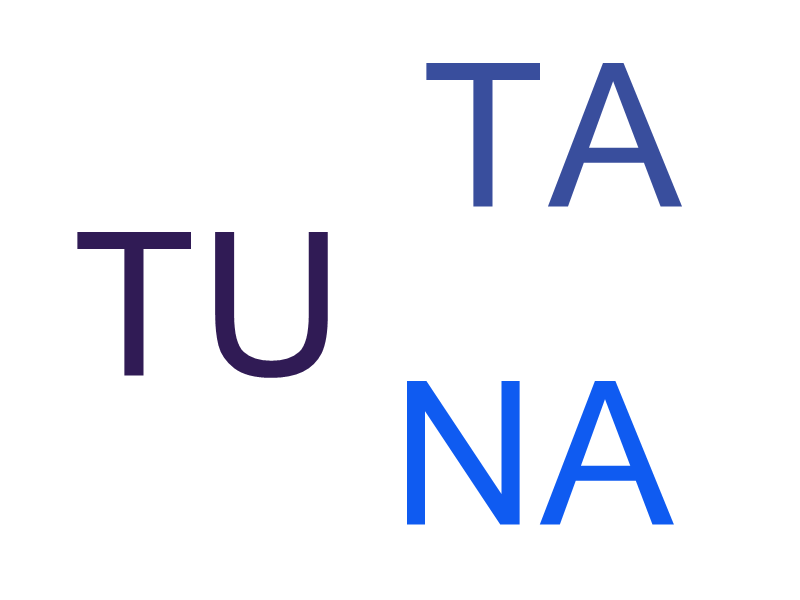
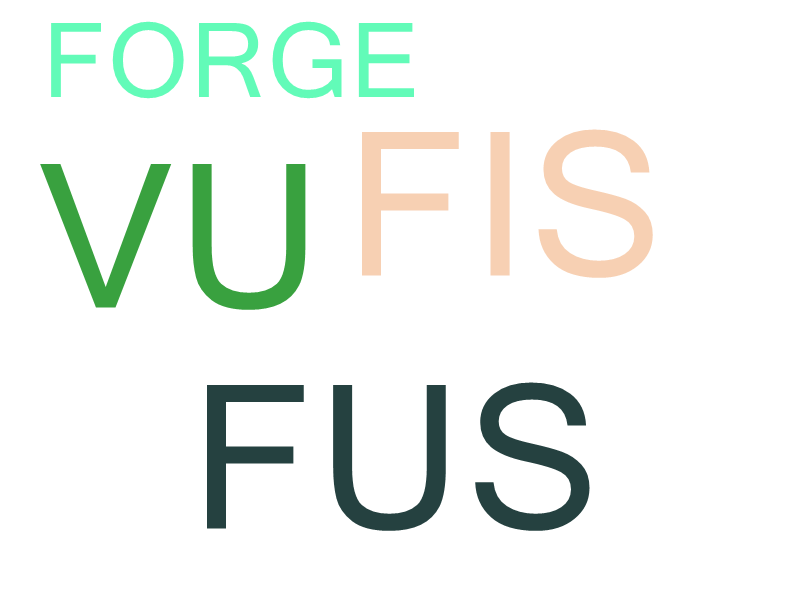
Début du nuage de mots - probs de config à régler

Changed region(s): [[0.0312, 0.03, 0.875, 0.9], [0.4062, 0.63, 0.8438, 0.9]]

diff --git a/Projet_Algo_1/Program.cs b/Projet_Algo_1/Program.cs
@@ -4,7 +4,9 @@ using System.Globalization;
 using System.Drawing;
 using WordCloudSharp;
 using System.Drawing.Imaging;
+using System.Linq;
 using static System.Net.Mime.MediaTypeNames;
+using System.Diagnostics;
 
 
 namespace Projet_Algo_1
@@ -235,12 +237,14 @@ namespace Projet_Algo_1
                     IList<string> motsTrouvés = joueur.MotsTrouvés.ToList();
                     IList<int> frequences = motsFrequencies.Values.ToList();
                     var wordCloud = new WordCloud(800, 600); /// Taille de l'image
-                    Image image = wordCloud.Draw(motsTrouvés, frequences);
+                    System.Drawing.Image image = wordCloud.Draw(motsTrouvés, frequences); /// Explicitement System.Drawing.Image
+
                     /// Sauvegarder le nuage de mots dans un fichier
                     string cheminImage = $"../../../../nuage_{joueur.pseudo}.png";
                     image.Save(cheminImage, ImageFormat.Png); /// Utilisation d'ImageFormat.Png pour sauver l'image au format PNG
 
                     Console.WriteLine($"Nuage de mots sauvegardé pour {joueur.pseudo} : {cheminImage}");
+                    Process.Start("mspaint", cheminImage);///Ouverture du fichier dans paint
                 }
                 catch (Exception ex)
                 {
@@ -248,27 +252,7 @@ namespace Projet_Algo_1
                     Console.WriteLine($"Erreur lors de la génération du nuage de mots pour {joueur.pseudo}: {ex.Message}");
                 }
             }
-            static void AfficherImage(Image image, string pseudo)
-            {
-                /// Créer une fenêtre pour afficher l'image
-                Form fenetre = new Form
-                {
-                    Text = $"Nuage de mots - {pseudo}",
-                    ClientSize = new Size(800, 600), // Taille de la fenêtre
-                    StartPosition = FormStartPosition.CenterScreen
-                };
-
-                /// Ajouter un PictureBox pour afficher l'image
-                PictureBox pictureBox = new PictureBox
-                {
-                    Dock = DockStyle.Fill, // Remplit la fenêtre
-                    Image = image,
-                    SizeMode = PictureBoxSizeMode.Zoom // Ajuste l'image à la taille de la fenêtre
-                };
-
-                fenetre.Controls.Add(pictureBox);
-                Application.Run(fenetre); // Afficher la fenêtre
-            }
+            
             #endregion
         }
     }
